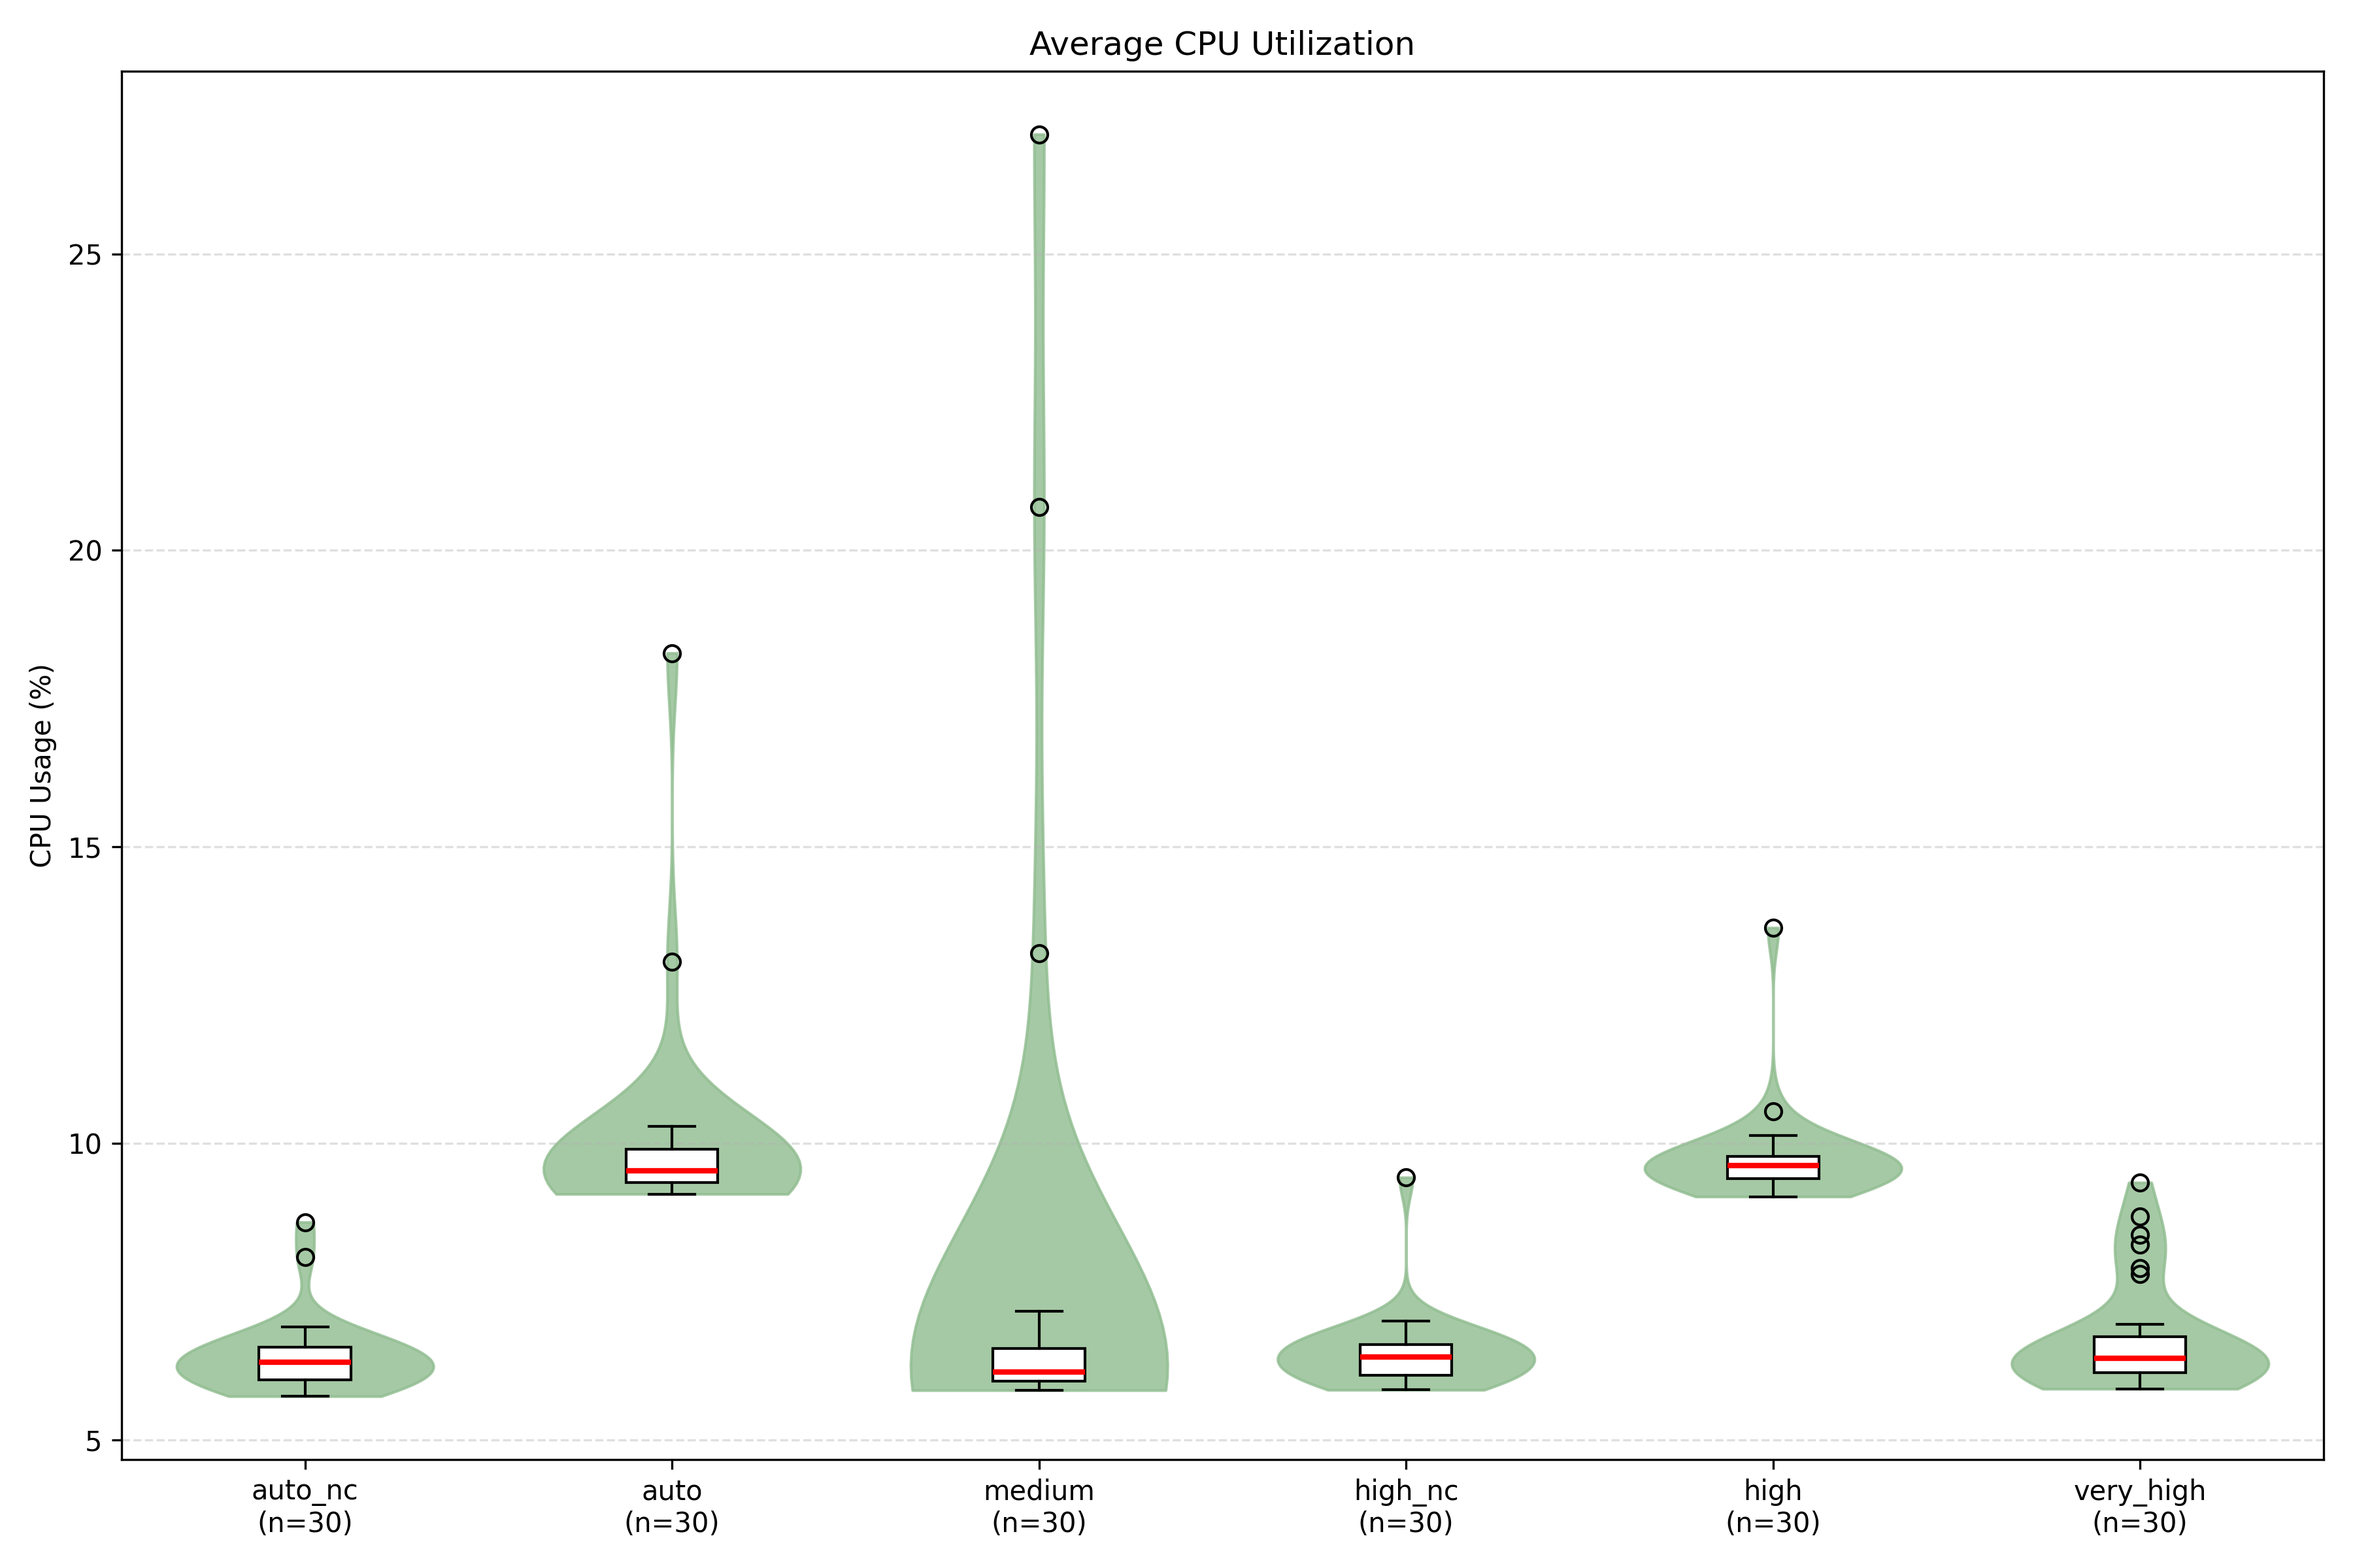
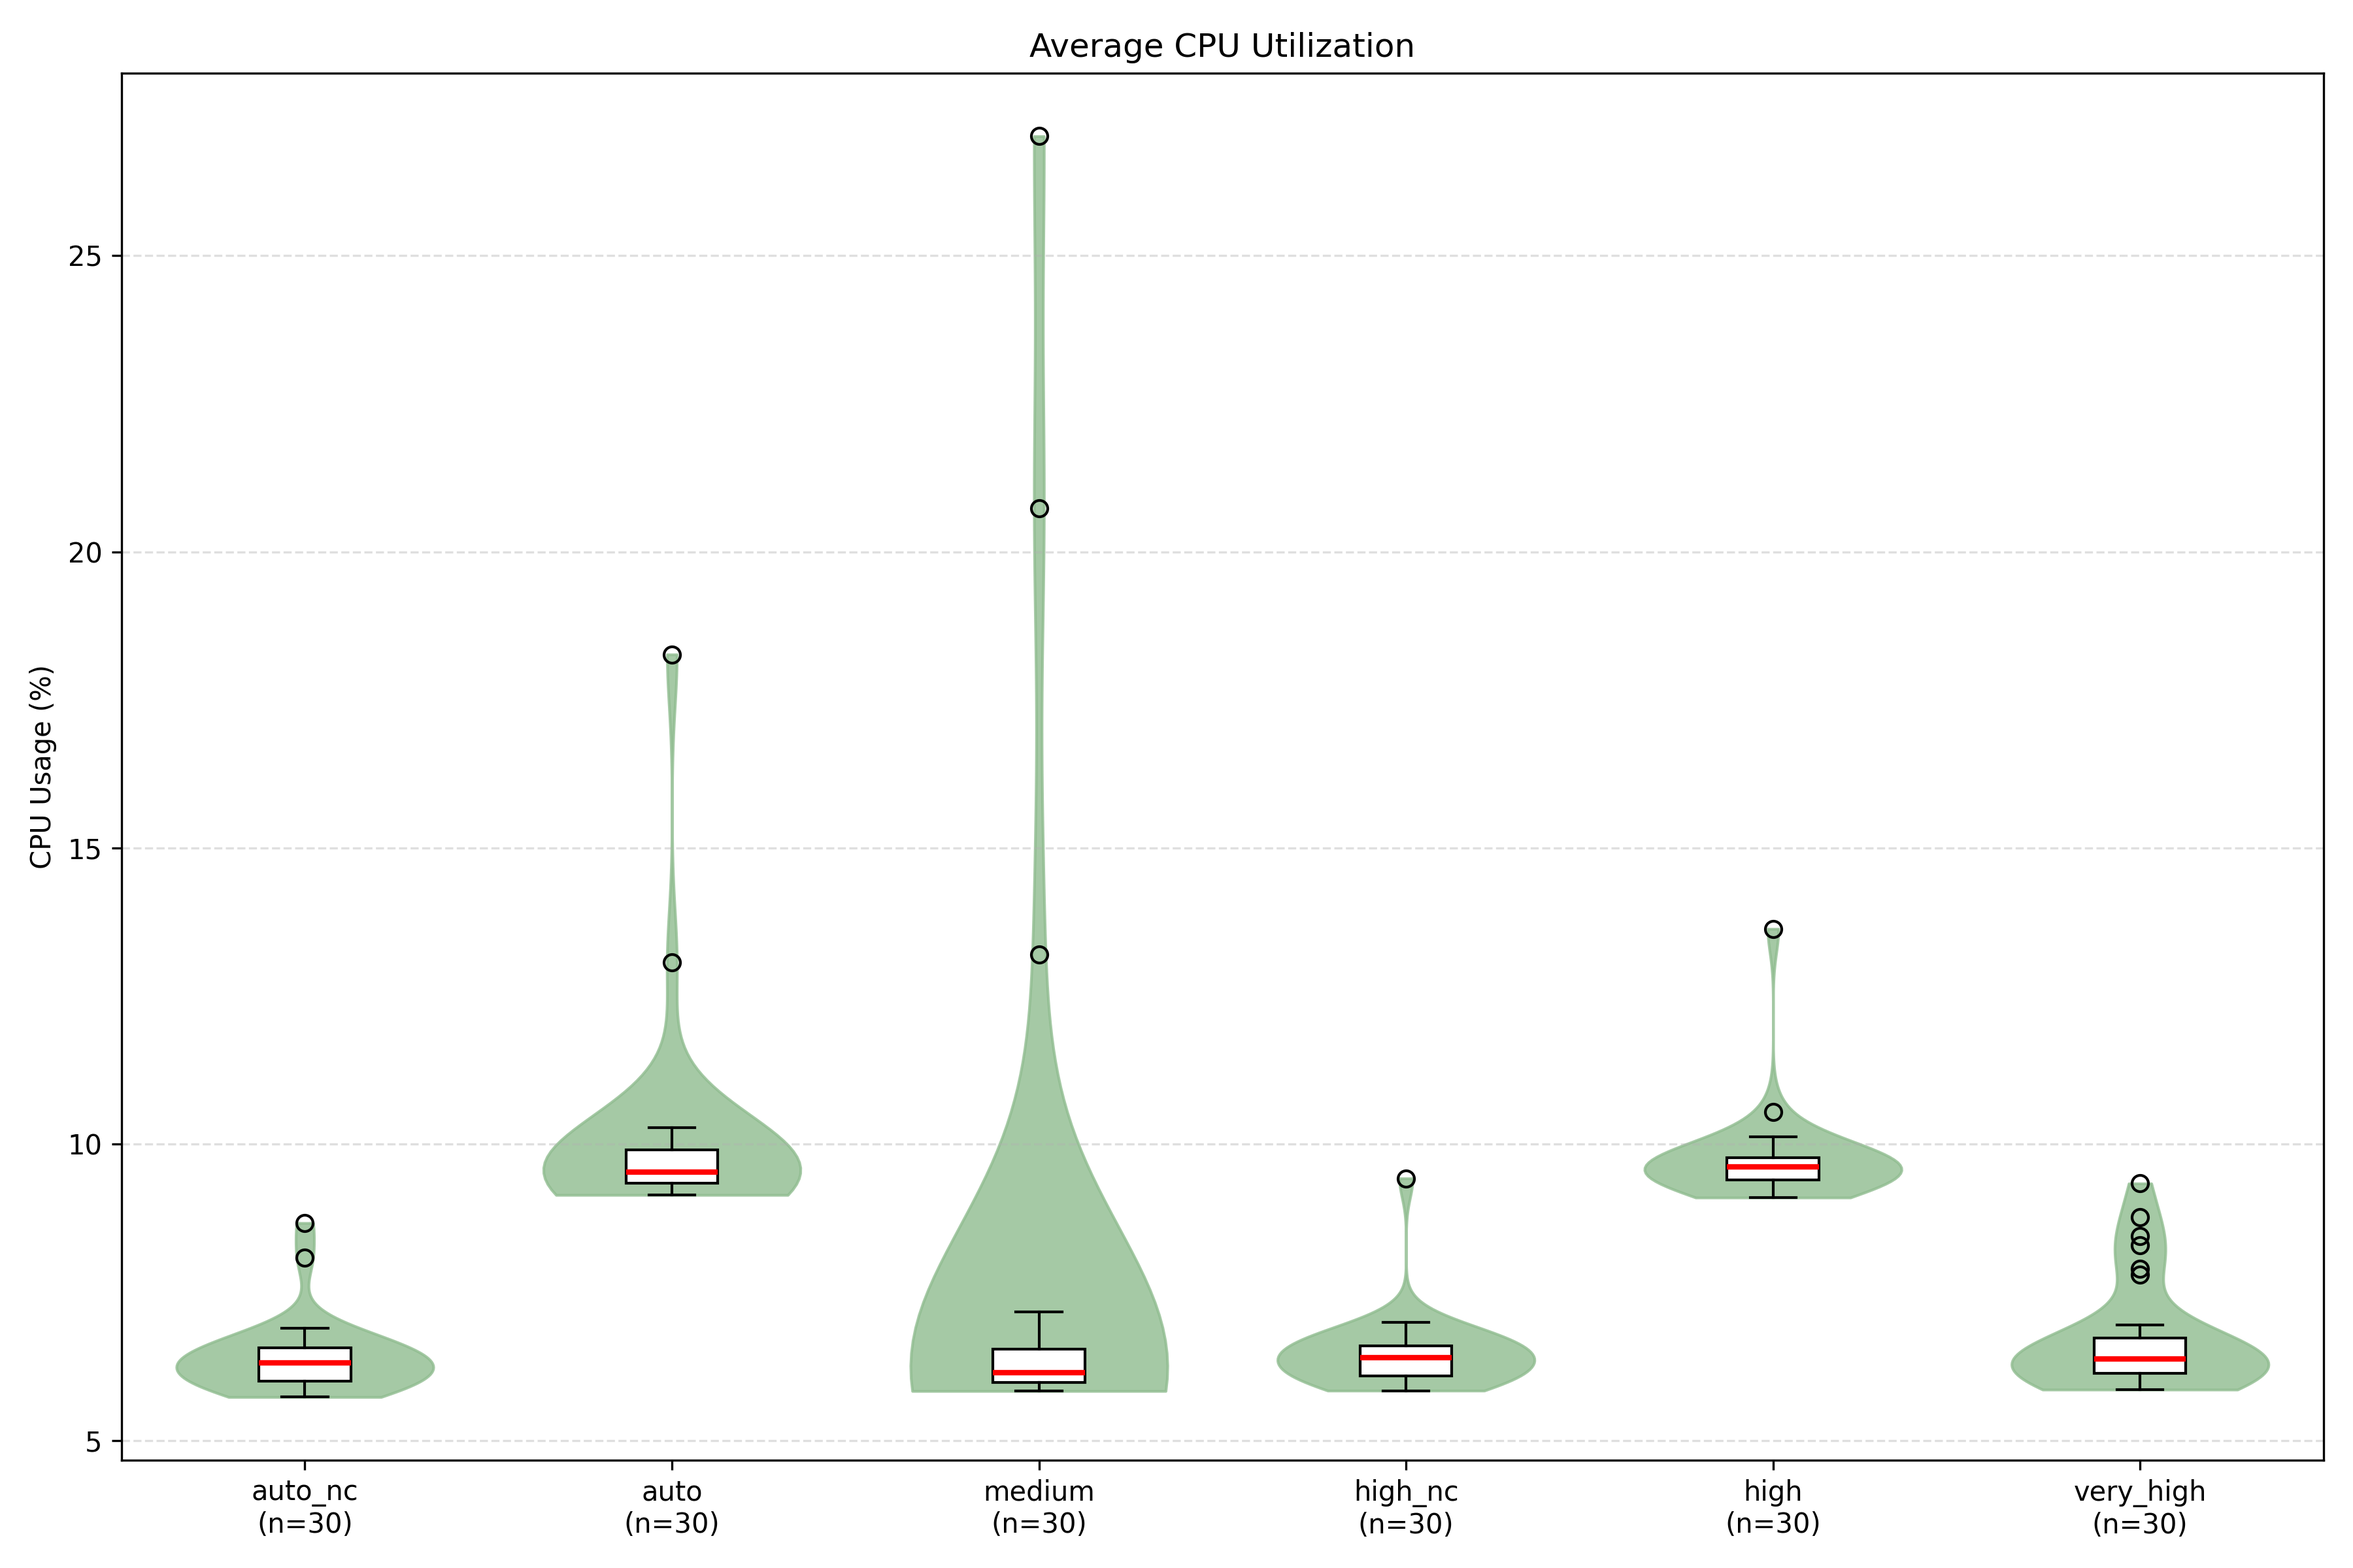
Cleaned up plots

diff --git a/2026/p1_measuring_software/g31_spotify_energy.md b/2026/p1_measuring_software/g31_spotify_energy.md
@@ -97,12 +97,12 @@ CPU utilisation mirrors the energy pattern: auto and high show higher sustained 
 
 Temperature differences are comparatively small (within \~0.5°C across groups), indicating that thermal variation is unlikely to be the primary driver of the energy gap. The very high setting has the highest outlier.
 
-![](../experiment/analysis_plots/01_energy_9.png)
-![](../experiment/analysis_plots/02_avg_power_9.png)
+![](../experiment/analysis_plots/01_energy_1.png)
+![](../experiment/analysis_plots/02_avg_power_1.png)
 
-![](../experiment/analysis_plots/05_cpu_usage_9.png)
+![](../experiment/analysis_plots/05_cpu_usage_1.png)
 
-![](../experiment/analysis_plots/06_temperature_9.png)
+![](../experiment/analysis_plots/06_temperature_1.png)
 
 | Group | mean\_power\_W | std\_power\_W | avg\_min\_power\_W | avg\_max\_power\_W | between\_run\_std\_W |
 | :---- | :---- | :---- | :---- | :---- | :---- |
